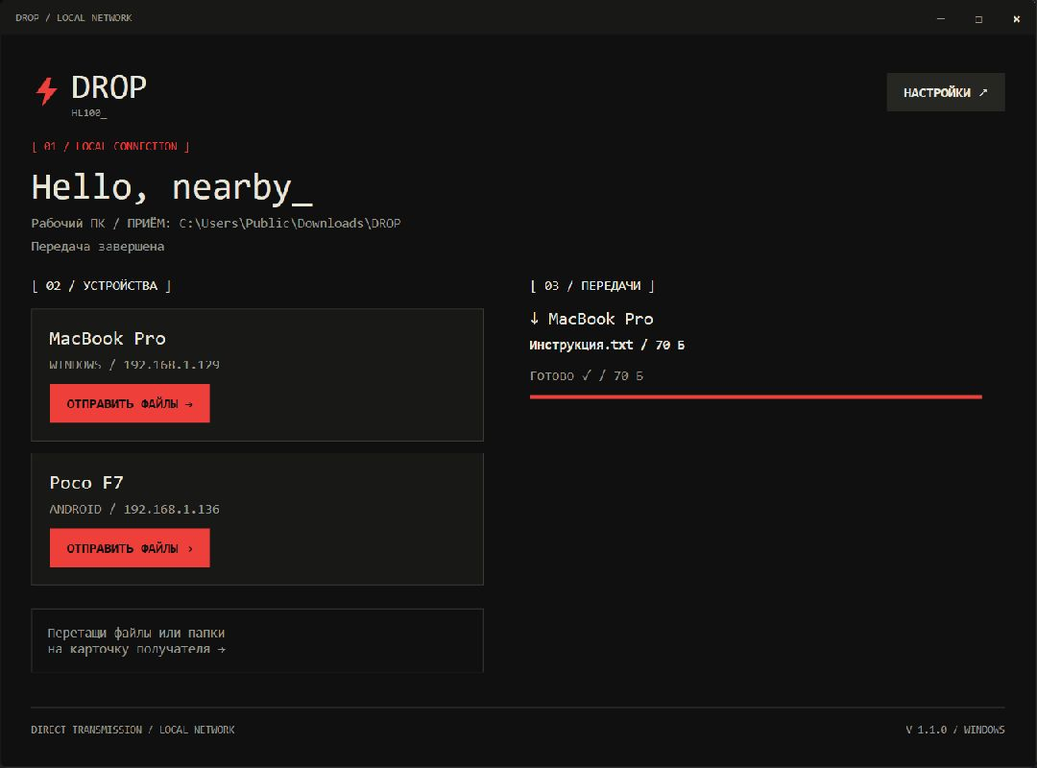
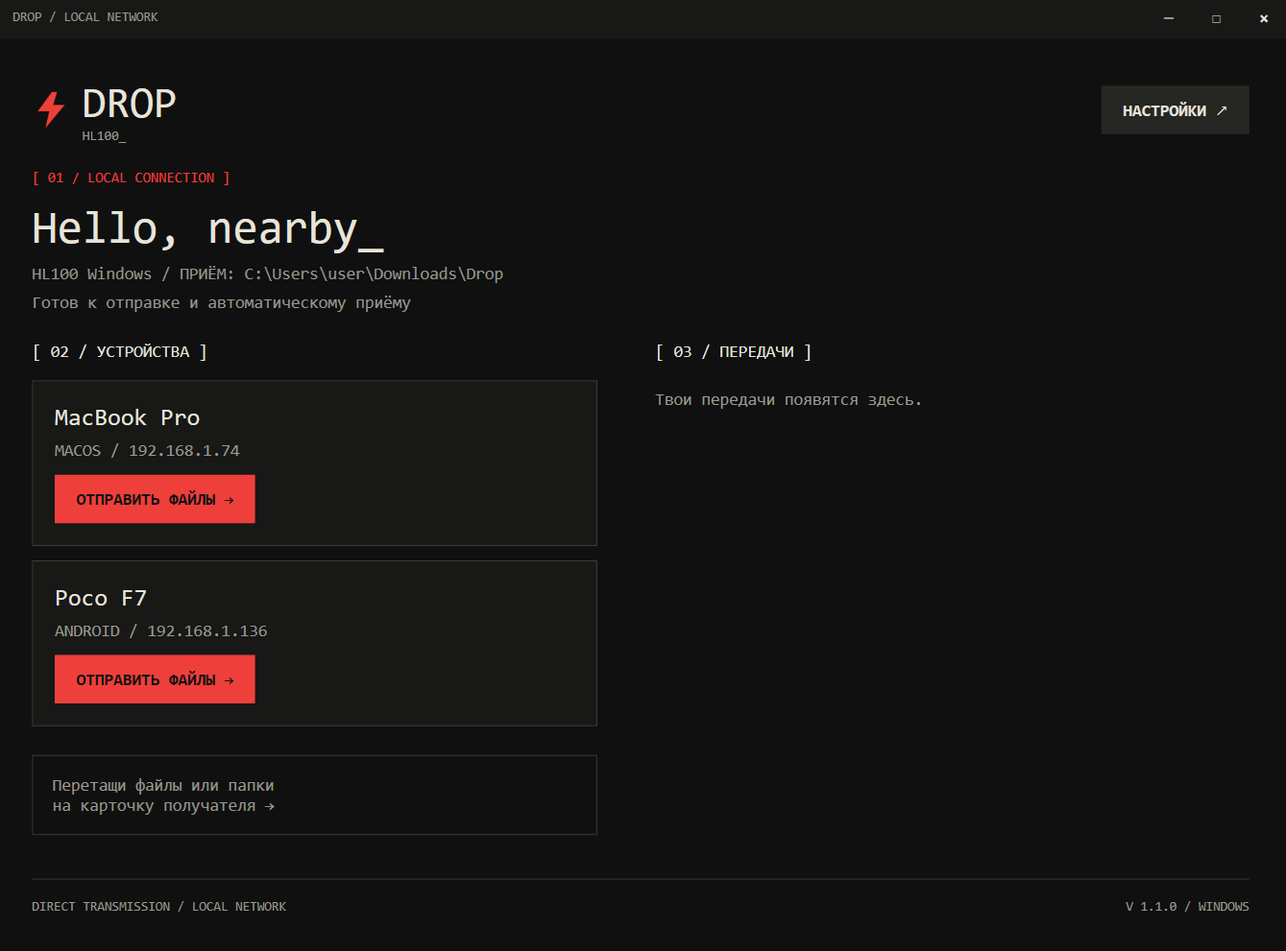
Replace Windows and Android screenshots with user-provided originals

diff --git a/site/style.css b/site/style.css
@@ -1,1 +1,1 @@
-*{box-sizing:border-box}html{scroll-behavior:smooth;scroll-padding-top:30px}body{margin:0;background:#101010;color:#e8e5d9;font-family:Consolas,"SFMono-Regular",Menlo,monospace;font-size:15px;line-height:1.7}a{color:inherit;text-decoration:none}a:hover{color:#ef3f3b}button{font:inherit;cursor:pointer}button:focus-visible,a:focus-visible,summary:focus-visible{outline:2px solid #ef3f3b;outline-offset:5px}.wrap{width:min(1180px,calc(100% - 64px));margin-inline:auto}.nav{height:110px;display:flex;align-items:center;justify-content:space-between;border-bottom:1px solid #30302c}.brand{display:flex;gap:13px;align-items:center;line-height:1;font-size:28px;font-weight:bold}.brand small{display:block;font-size:10px;letter-spacing:2px;color:#99998f;margin-top:8px;font-weight:normal}.nav nav{display:flex;gap:34px;align-items:center;font-size:12px}.nav-download{color:#ef3f3b}.hero{padding:55px 0 78px}.eyebrow,.section-label{color:#ef3f3b;font-size:12px;letter-spacing:1px;display:flex;justify-content:space-between;gap:20px}.hero-grid{display:grid;grid-template-columns:1.25fr 1fr;gap:50px;margin-top:45px;align-items:center}h1{font-size:clamp(35px,4.8vw,66px);font-weight:normal;line-height:1.14;letter-spacing:-3px;margin:0 0 30px}h1 span{color:#99998f}.lead{font-size:22px;line-height:1.55}.hero-copy{max-width:490px;color:#aaa99e}.actions{display:flex;align-items:center;gap:28px;margin:35px 0}.button{display:inline-block;background:#ef3f3b;color:#101010;padding:17px 24px;font-size:12px;font-weight:bold;text-align:center;line-height:1.3;border:1px solid #ef3f3b}.button:hover{background:#ff5550;color:#101010}.text-link{font-size:12px;border-bottom:1px solid #54544c;padding-bottom:5px}.platforms{font-size:10px;letter-spacing:1px;color:#99998f}.platforms i{color:#ef3f3b;font-style:normal;margin:0 9px}.hero-art{background:#181817;border:1px solid #393932;min-height:405px;padding:40px 30px;position:relative}.hero-art>img{width:34px;height:44px;display:inline-block;margin-right:15px}.hero-art strong{font-size:clamp(62px,7.5vw,104px);line-height:1;letter-spacing:-5px;font-weight:normal}.network{display:flex;justify-content:space-between;align-items:center;font-size:11px;margin-top:42px;gap:8px}.network b{color:#ef3f3b;font-size:21px}.hero-art p{font-size:10px;color:#99998f;letter-spacing:1px;margin-top:23px}.hero-art .line{height:4px;background:#ef3f3b;width:80%;margin:30px 0 20px}.hero-art small{font-size:9px;color:#99998f;letter-spacing:1px}section:not(.hero){padding:65px 0;border-top:1px solid #30302c}.section-heading{display:grid;grid-template-columns:1.25fr 1fr;gap:50px;align-items:center;margin:30px 0}h2{font-size:clamp(28px,3.3vw,43px);line-height:1.2;font-weight:normal;letter-spacing:-1.5px;margin:30px 0}h3{font-size:19px;line-height:1.35;font-weight:normal}.section-heading p{color:#99998f;margin:0 0 16px}.screenshot{border:1px solid #393932;padding:0;display:block;background:#181817;width:100%;overflow:hidden}.screenshot:hover{border-color:#ef3f3b}.screenshot img{display:block;width:100%;height:auto}.portrait{max-width:430px;margin:auto}.caption{color:#99998f;font-size:11px;line-height:1.7;margin:15px 0 28px}.feature-grid,.download-grid{display:grid;grid-template-columns:repeat(3,1fr);gap:0;margin-top:40px}.feature-grid article{padding:10px 28px 10px 0}.feature-grid article+article{border-left:1px solid #393932;padding-left:28px}.feature-grid span,.download-grid span{font-size:10px;color:#ef3f3b;letter-spacing:1px}.feature-grid p,.steps p,.screen-grid p{color:#aaa99e;font-size:13px}.steps{display:grid;grid-template-columns:repeat(3,1fr);gap:30px;padding:0;list-style:none;margin:40px 0}.steps b{font-size:42px;color:#ef3f3b;font-weight:normal}.screen-grid{display:grid;grid-template-columns:1fr 1fr;gap:75px;margin-top:40px}.screen-grid article{max-width:430px;margin:auto;width:100%}.screen-grid small{font-size:10px;color:#99998f}.screen-grid .screenshot{max-height:700px}.download-grid article{padding:30px 24px;border:1px solid #393932;background:#181817}.download-grid article+article{border-left:none}.download-grid h3{font-size:29px;margin:20px 0}.download-grid p{min-height:60px;font-size:12px;color:#aaa99e}.download-grid .button{display:block;margin:28px 0 20px}.download-grid .text-link{font-size:10px}.download .lead{color:#99998f}.update .section-heading>div{max-width:460px}details{border-bottom:1px solid #393932;padding:19px 0}summary{cursor:pointer;list-style:none;display:flex;justify-content:space-between;gap:20px;font-size:15px}summary::after{content:"+";color:#ef3f3b}details[open] summary::after{content:"−"}details p{font-size:13px;color:#aaa99e;max-width:850px}footer{border-top:1px solid #393932;padding:35px 0 50px;display:flex;align-items:center;justify-content:space-between;gap:25px}footer .brand{font-size:22px}footer p{font-size:9px;color:#99998f}footer>div{display:flex;flex-direction:column;font-size:10px;gap:6px}dialog{background:#101010;color:#e8e5d9;border:1px solid #55554c;max-width:95vw;max-height:95vh;padding:36px 14px 14px}dialog::backdrop{background:#000c}dialog img{display:block;max-height:78vh;max-width:90vw;width:auto;margin:auto}dialog p{font-size:11px;margin:12px 0 0}.close{position:absolute;right:8px;top:4px;border:0;background:transparent;color:#e8e5d9;font-size:25px}.skip{position:fixed;top:-100px;left:20px;background:#ef3f3b;color:#101010;padding:12px;z-index:100}.skip:focus{top:10px}.guide{max-width:940px;padding-top:45px}.guide h1{margin-top:30px}.guide-nav{display:flex;flex-wrap:wrap;gap:12px 24px;font-size:12px;margin:35px 0 60px;color:#aaa99e}.guide section{padding:50px 0}.guide section p,.guide section li{color:#aaa99e;max-width:800px}.guide li{margin-bottom:12px}.guide section a:not(.button){color:#e8e5d9;text-decoration:underline;text-underline-offset:4px}.guide .portrait{margin:30px 0;max-width:360px}.guide .wide{margin-top:30px}.guide section .text-link{text-decoration:none!important}@media(max-width:850px){.wrap{width:calc(100% - 40px)}.hero-grid{gap:28px;grid-template-columns:1fr}.hero-art{min-height:260px;padding:25px;max-width:550px}.hero-art strong{font-size:90px}.network{margin-top:25px}.hero{padding:35px 0 50px}.section-heading{gap:25px;grid-template-columns:1fr}.feature-grid,.steps{grid-template-columns:1fr}.feature-grid article{padding:22px 0}.feature-grid article+article{border-left:none;border-top:1px solid #393932;padding-left:0}.steps{gap:15px}.steps li{padding-bottom:15px;border-bottom:1px solid #393932}.steps b{float:left;margin-right:25px}.screen-grid{gap:30px}.download-grid{grid-template-columns:1fr}.download-grid article+article{border-left:1px solid #393932;border-top:none}.download-grid p{min-height:0}.download-grid .button{max-width:340px}.nav{height:90px}.nav nav{gap:18px}.nav nav>a{font-size:10px}footer{flex-wrap:wrap}.guide h1{letter-spacing:-1px}}@media(max-width:520px){.wrap{width:calc(100% - 32px)}.nav nav{gap:12px}.brand{font-size:22px;gap:8px}.brand>img{width:20px}.nav-download{display:none}h1{letter-spacing:-1.5px;font-size:39px}.lead{font-size:18px}.actions{gap:18px;flex-wrap:wrap}.platforms{font-size:8px;letter-spacing:0}.platforms i{margin:0 4px}.hero-art strong{font-size:76px}.hero-art>img{width:26px}.hero-art{padding:25px 20px}.network{font-size:9px}.screen-grid{grid-template-columns:1fr;gap:48px}.screen-grid .screenshot{max-width:320px}.screen-grid h3,.screen-grid p,.screen-grid small{max-width:320px;display:block;margin-inline:auto}.section-label,.eyebrow{font-size:10px;letter-spacing:0}section:not(.hero){padding:45px 0}h2{font-size:30px;letter-spacing:-1px}footer p{width:100%}.guide section{padding:40px 0}.guide ol,.guide ul{padding-left:22px}.guide section li{font-size:13px}}@media(prefers-reduced-motion:reduce){html{scroll-behavior:auto}}
+*{box-sizing:border-box}html{scroll-behavior:smooth;scroll-padding-top:30px}body{margin:0;background:#101010;color:#e8e5d9;font-family:Consolas,"SFMono-Regular",Menlo,monospace;font-size:15px;line-height:1.7}a{color:inherit;text-decoration:none}a:hover{color:#ef3f3b}button{font:inherit;cursor:pointer}button:focus-visible,a:focus-visible,summary:focus-visible{outline:2px solid #ef3f3b;outline-offset:5px}.wrap{width:min(1180px,calc(100% - 64px));margin-inline:auto}.nav{height:110px;display:flex;align-items:center;justify-content:space-between;border-bottom:1px solid #30302c}.brand{display:flex;gap:13px;align-items:center;line-height:1;font-size:28px;font-weight:bold}.brand small{display:block;font-size:10px;letter-spacing:2px;color:#99998f;margin-top:8px;font-weight:normal}.nav nav{display:flex;gap:34px;align-items:center;font-size:12px}.nav-download{color:#ef3f3b}.hero{padding:55px 0 78px}.eyebrow,.section-label{color:#ef3f3b;font-size:12px;letter-spacing:1px;display:flex;justify-content:space-between;gap:20px}.hero-grid{display:grid;grid-template-columns:1.25fr 1fr;gap:50px;margin-top:45px;align-items:center}h1{font-size:clamp(35px,4.8vw,66px);font-weight:normal;line-height:1.14;letter-spacing:-3px;margin:0 0 30px}h1 span{color:#99998f}.lead{font-size:22px;line-height:1.55}.hero-copy{max-width:490px;color:#aaa99e}.actions{display:flex;align-items:center;gap:28px;margin:35px 0}.button{display:inline-block;background:#ef3f3b;color:#101010;padding:17px 24px;font-size:12px;font-weight:bold;text-align:center;line-height:1.3;border:1px solid #ef3f3b}.button:hover{background:#ff5550;color:#101010}.text-link{font-size:12px;border-bottom:1px solid #54544c;padding-bottom:5px}.platforms{font-size:10px;letter-spacing:1px;color:#99998f}.platforms i{color:#ef3f3b;font-style:normal;margin:0 9px}.hero-art{background:#181817;border:1px solid #393932;min-height:405px;padding:40px 30px;position:relative}.hero-art>img{width:34px;height:44px;display:inline-block;margin-right:15px}.hero-art strong{font-size:clamp(62px,7.5vw,104px);line-height:1;letter-spacing:-5px;font-weight:normal}.network{display:flex;justify-content:space-between;align-items:center;font-size:11px;margin-top:42px;gap:8px}.network b{color:#ef3f3b;font-size:21px}.hero-art p{font-size:10px;color:#99998f;letter-spacing:1px;margin-top:23px}.hero-art .line{height:4px;background:#ef3f3b;width:80%;margin:30px 0 20px}.hero-art small{font-size:9px;color:#99998f;letter-spacing:1px}section:not(.hero){padding:65px 0;border-top:1px solid #30302c}.section-heading{display:grid;grid-template-columns:1.25fr 1fr;gap:50px;align-items:center;margin:30px 0}h2{font-size:clamp(28px,3.3vw,43px);line-height:1.2;font-weight:normal;letter-spacing:-1.5px;margin:30px 0}h3{font-size:19px;line-height:1.35;font-weight:normal}.section-heading p{color:#99998f;margin:0 0 16px}.screenshot{border:1px solid #393932;padding:0;display:block;background:#181817;width:100%;overflow:hidden}.screenshot:hover{border-color:#ef3f3b}.screenshot img{display:block;width:100%;height:auto}.portrait{max-width:430px;margin:auto}.caption{color:#99998f;font-size:11px;line-height:1.7;margin:15px 0 28px}.feature-grid,.download-grid{display:grid;grid-template-columns:repeat(3,1fr);gap:0;margin-top:40px}.feature-grid article{padding:10px 28px 10px 0}.feature-grid article+article{border-left:1px solid #393932;padding-left:28px}.feature-grid span,.download-grid span{font-size:10px;color:#ef3f3b;letter-spacing:1px}.feature-grid p,.steps p,.screen-grid p{color:#aaa99e;font-size:13px}.steps{display:grid;grid-template-columns:repeat(3,1fr);gap:30px;padding:0;list-style:none;margin:40px 0}.steps b{font-size:42px;color:#ef3f3b;font-weight:normal}.screen-grid{display:grid;grid-template-columns:1fr 1fr;gap:75px;margin-top:40px}.screen-grid article{max-width:430px;margin:auto;width:100%}.screen-grid small{font-size:10px;color:#99998f}.screen-grid{align-items:start}.screen-grid article{margin:0 auto}.download-grid article{padding:30px 24px;border:1px solid #393932;background:#181817}.download-grid article+article{border-left:none}.download-grid h3{font-size:29px;margin:20px 0}.download-grid p{min-height:60px;font-size:12px;color:#aaa99e}.download-grid .button{display:block;margin:28px 0 20px}.download-grid .text-link{font-size:10px}.download .lead{color:#99998f}.update .section-heading>div{max-width:460px}details{border-bottom:1px solid #393932;padding:19px 0}summary{cursor:pointer;list-style:none;display:flex;justify-content:space-between;gap:20px;font-size:15px}summary::after{content:"+";color:#ef3f3b}details[open] summary::after{content:"−"}details p{font-size:13px;color:#aaa99e;max-width:850px}footer{border-top:1px solid #393932;padding:35px 0 50px;display:flex;align-items:center;justify-content:space-between;gap:25px}footer .brand{font-size:22px}footer p{font-size:9px;color:#99998f}footer>div{display:flex;flex-direction:column;font-size:10px;gap:6px}dialog{background:#101010;color:#e8e5d9;border:1px solid #55554c;max-width:95vw;max-height:95vh;padding:36px 14px 14px}dialog::backdrop{background:#000c}dialog img{display:block;max-height:78vh;max-width:90vw;width:auto;margin:auto}dialog p{font-size:11px;margin:12px 0 0}.close{position:absolute;right:8px;top:4px;border:0;background:transparent;color:#e8e5d9;font-size:25px}.skip{position:fixed;top:-100px;left:20px;background:#ef3f3b;color:#101010;padding:12px;z-index:100}.skip:focus{top:10px}.guide{max-width:940px;padding-top:45px}.guide h1{margin-top:30px}.guide-nav{display:flex;flex-wrap:wrap;gap:12px 24px;font-size:12px;margin:35px 0 60px;color:#aaa99e}.guide section{padding:50px 0}.guide section p,.guide section li{color:#aaa99e;max-width:800px}.guide li{margin-bottom:12px}.guide section a:not(.button){color:#e8e5d9;text-decoration:underline;text-underline-offset:4px}.guide .portrait{margin:30px 0;max-width:360px}.guide .wide{margin-top:30px}.guide section .text-link{text-decoration:none!important}@media(max-width:850px){.wrap{width:calc(100% - 40px)}.hero-grid{gap:28px;grid-template-columns:1fr}.hero-art{min-height:260px;padding:25px;max-width:550px}.hero-art strong{font-size:90px}.network{margin-top:25px}.hero{padding:35px 0 50px}.section-heading{gap:25px;grid-template-columns:1fr}.feature-grid,.steps{grid-template-columns:1fr}.feature-grid article{padding:22px 0}.feature-grid article+article{border-left:none;border-top:1px solid #393932;padding-left:0}.steps{gap:15px}.steps li{padding-bottom:15px;border-bottom:1px solid #393932}.steps b{float:left;margin-right:25px}.screen-grid{gap:30px}.download-grid{grid-template-columns:1fr}.download-grid article+article{border-left:1px solid #393932;border-top:none}.download-grid p{min-height:0}.download-grid .button{max-width:340px}.nav{height:90px}.nav nav{gap:18px}.nav nav>a{font-size:10px}footer{flex-wrap:wrap}.guide h1{letter-spacing:-1px}}@media(max-width:520px){.wrap{width:calc(100% - 32px)}.nav nav{gap:12px}.brand{font-size:22px;gap:8px}.brand>img{width:20px}.nav-download{display:none}h1{letter-spacing:-1.5px;font-size:39px}.lead{font-size:18px}.actions{gap:18px;flex-wrap:wrap}.platforms{font-size:8px;letter-spacing:0}.platforms i{margin:0 4px}.hero-art strong{font-size:76px}.hero-art>img{width:26px}.hero-art{padding:25px 20px}.network{font-size:9px}.screen-grid{grid-template-columns:1fr;gap:48px}.screen-grid .screenshot{max-width:320px}.screen-grid h3,.screen-grid p,.screen-grid small{max-width:320px;display:block;margin-inline:auto}.section-label,.eyebrow{font-size:10px;letter-spacing:0}section:not(.hero){padding:45px 0}h2{font-size:30px;letter-spacing:-1px}footer p{width:100%}.guide section{padding:40px 0}.guide ol,.guide ul{padding-left:22px}.guide section li{font-size:13px}}@media(prefers-reduced-motion:reduce){html{scroll-behavior:auto}}

diff --git a/site/index.html b/site/index.html
@@ -1,7 +1,7 @@
 <!doctype html><html lang="ru"><head><meta charset="utf-8"><meta name="viewport" content="width=device-width,initial-scale=1"><meta name="theme-color" content="#101010"><title>DROP — файлы рядом. Без проводов.</title><meta name="description" content="Нативный обмен файлами и папками в локальной сети. Windows, Android и Mac. Прямой TCP, пауза и докачка."><meta property="og:title" content="DROP — файлы рядом. Без проводов."><meta property="og:description" content="Windows · Android · Mac. Выбери устройство и отправь."><meta property="og:image" content="https://cveloy102.github.io/hl100-drop/images/windows-main.png"><link rel="icon" href="images/drop-mark.svg" type="image/svg+xml"><link rel="stylesheet" href="style.css"><script src="app.js" defer></script></head><body><a class="skip" href="#main">К содержимому</a><header class="nav wrap"><a class="brand" href="./" aria-label="DROP — главная"><img src="images/drop-mark.svg" alt="" width="24" height="30"><span>DROP<small>HL100_</small></span></a><nav aria-label="Главное меню"><a href="guide.html">Инструкция</a><a href="https://github.com/cveloy102/hl100-drop">GitHub ↗</a><a class="nav-download" href="./#download">Скачать ↓</a></nav></header><main id="main"><section class="hero wrap"><div class="eyebrow">[ 01 / HELLO, NEARBY_ ] <span data-version>V 1.1.1</span></div><div class="hero-grid"><div><h1>Файлы рядом.<br><span>Без проводов.</span></h1><p class="lead">С компьютера на телефон.<br>С телефона на Mac. И обратно.</p><p class="hero-copy">Открой DROP на устройствах в одной сети. Выбери получателя — файлы отправятся напрямую в его папку.</p><div class="actions"><a class="button" href="#download">СКАЧАТЬ DROP ↓</a><a class="text-link" href="guide.html">Как это работает ↗</a></div><div class="platforms">WINDOWS 10+ <i>/</i> ANDROID 12+ <i>/</i> macOS 12+</div></div><div class="hero-art" aria-label="DROP — прямой обмен в локальной сети"><img src="images/drop-mark.svg" alt="" width="72" height="90"><strong>DROP</strong><div class="network"><span>ПК</span><b>↔</b><span>ТЕЛЕФОН</span><b>↔</b><span>MAC</span></div><p>ОДНА СЕТЬ. ТВОИ УСТРОЙСТВА.</p><div class="line"></div><small>HL100_ / DIRECT CONNECTION</small></div></div></section>
-<section class="product wrap"><div class="section-label">[ 02 / ПРЯМОЙ ПУТЬ К ФАЙЛАМ ]</div><div class="section-heading"><h2>Увидел. Выбрал.<br>Отправил.</h2><p>Без аккаунта и облачного посредника.<br>Нативный интерфейс на каждой платформе.</p></div><button class="screenshot wide" data-viewer type="button" aria-label="Увеличить главный экран Windows"><img src="images/windows-main.png" alt="DROP на Windows: устройства рядом и полученный файл" loading="lazy"></button><p class="caption">Windows 1.1.0 · настоящий интерфейс · демонстрационные имя устройства и файл.</p><div class="feature-grid"><article><span>01 — DIRECT</span><h3>В твоей сети</h3><p>Данные идут между устройствами по TCP. Для обмена интернет не нужен.</p></article><article><span>02 — KEEP GOING</span><h3>С того же места</h3><p>Пауза по твоему желанию. Автоматическая докачка после обрыва и выхода из приложений.</p></article><article><span>03 — WHOLE FOLDER</span><h3>Папка целиком</h3><p>Структура, вложения и пустые папки сохраняются. В истории — один объект с общим размером.</p></article></div></section>
+<section class="product wrap"><div class="section-label">[ 02 / ПРЯМОЙ ПУТЬ К ФАЙЛАМ ]</div><div class="section-heading"><h2>Увидел. Выбрал.<br>Отправил.</h2><p>Без аккаунта и облачного посредника.<br>Нативный интерфейс на каждой платформе.</p></div><button class="screenshot wide" data-viewer type="button" aria-label="Увеличить главный экран Windows"><img src="images/windows-main.png" alt="DROP на Windows: MacBook Pro и Poco F7 в локальной сети" loading="lazy"></button><p class="caption">Windows 1.1.0 · оригинальный скриншот пользователя · Mac и Android в локальной сети.</p><div class="feature-grid"><article><span>01 — DIRECT</span><h3>В твоей сети</h3><p>Данные идут между устройствами по TCP. Для обмена интернет не нужен.</p></article><article><span>02 — KEEP GOING</span><h3>С того же места</h3><p>Пауза по твоему желанию. Автоматическая докачка после обрыва и выхода из приложений.</p></article><article><span>03 — WHOLE FOLDER</span><h3>Папка целиком</h3><p>Структура, вложения и пустые папки сохраняются. В истории — один объект с общим размером.</p></article></div></section>
 <section class="workflow wrap"><div class="section-label">[ 03 / ТРИ ШАГА ]</div><h2>Настрой один раз.<br>Пользуйся каждый день.</h2><ol class="steps"><li><b>01</b><h3>Имя и папка</h3><p>Как устройство увидят другие и куда сохранять полученное.</p></li><li><b>02</b><h3>Одна сеть</h3><p>Открой DROP на обоих устройствах. Получатели появятся рядом.</p></li><li><b>03</b><h3>Выбери и отправь</h3><p>Перетащи на ПК или Mac. На Android выбери фото, файлы или папку; доступно «Поделиться → DROP».</p></li></ol><a class="text-link" href="guide.html">Полная инструкция и ответы на вопросы ↗</a></section>
-<section class="screens wrap"><div class="section-label">[ 04 / СВОЙ НА КАЖДОМ УСТРОЙСТВЕ ]</div><div class="section-heading"><h2>Один DROP.<br>Три нативных приложения.</h2><p>WPF · Compose · AppKit<br>Общее ядро на Rust.</p></div><div class="screen-grid"><article><button class="screenshot portrait" data-viewer type="button" aria-label="Увеличить экран Mac"><img src="images/macos-main.png" alt="DROP в строке меню Mac: выбор получателя, передачи и Pin" loading="lazy"></button><h3>Mac — всегда рядом</h3><p>Компактная панель в строке меню, Pin и отдельное окно передач. Intel и Apple Silicon в одном DMG.</p><small>Настоящий AppKit 1.1.1 с демонстрационными данными из CI.</small></article><article id="android-preview"><button class="screenshot portrait" data-viewer type="button" aria-label="Увеличить экран Android"><img src="images/android-main.png" alt="Главный экран DROP на Android" loading="lazy"></button><h3>Android — отправь откуда удобно</h3><p>Фото, видео, файлы и папки. «Поделиться» из галереи. Приём в фоне можно включить в настройках.</p><small>Настоящий DROP 1.1.0 на POCO F7; экран снят 14 октября 2026.</small></article></div></section>
+<section class="screens wrap"><div class="section-label">[ 04 / СВОЙ НА КАЖДОМ УСТРОЙСТВЕ ]</div><div class="section-heading"><h2>Один DROP.<br>Три нативных приложения.</h2><p>WPF · Compose · AppKit<br>Общее ядро на Rust.</p></div><div class="screen-grid"><article><button class="screenshot portrait" data-viewer type="button" aria-label="Увеличить экран Mac"><img src="images/macos-main.png" alt="DROP в строке меню Mac: выбор получателя, передачи и Pin" loading="lazy"></button><h3>Mac — всегда рядом</h3><p>Компактная панель в строке меню, Pin и отдельное окно передач. Intel и Apple Silicon в одном DMG.</p><small>Настоящий AppKit 1.1.1 с демонстрационными данными из CI.</small></article><article id="android-preview"><button class="screenshot portrait" data-viewer type="button" aria-label="Увеличить экран Android"><img src="images/android-main.jpg" alt="Главный экран DROP на Android" loading="lazy"></button><h3>Android — отправь откуда удобно</h3><p>Фото, видео, файлы и папки. «Поделиться» из галереи. Приём в фоне можно включить в настройках.</p><small>DROP 1.1.0 на POCO F7 · доступно обновление до 1.1.1 · оригинальный скриншот пользователя, 14 октября 2026.</small></article></div></section>
 <section class="download wrap" id="download"><div class="section-label">[ 05 / DOWNLOAD ] <span data-version>V 1.1.1</span></div><h2>Готов к передаче.</h2><p class="lead">Выбери своё устройство.</p><div class="download-grid"><article><span>DESKTOP / X64</span><h3>Windows</h3><p>Windows 10 и новее.<br>Установщик, трей и автозапуск.</p><a class="button" data-asset="windows" href="https://github.com/cveloy102/hl100-drop/releases/download/v1.1.1/HL100DropSetup-1.1.1.exe">СКАЧАТЬ .EXE ↓</a><a class="text-link" href="guide.html#windows">Установка ↗</a></article><article><span>MOBILE / ARM64 · X86_64</span><h3>Android</h3><p>Android 12 и новее.<br>Релизный APK, без магазина.</p><a class="button" data-asset="android" href="https://github.com/cveloy102/hl100-drop/releases/download/v1.1.1/HL100Drop-1.1.1.apk">СКАЧАТЬ .APK ↓</a><a class="text-link" href="guide.html#android">Установка ↗</a></article><article><span>DESKTOP / UNIVERSAL</span><h3>macOS</h3><p>macOS 12 и новее.<br>Intel + Apple Silicon, включая M1 Pro.</p><a class="button" data-asset="macos" href="https://github.com/cveloy102/hl100-drop/releases/download/v1.1.1/HL100Drop-1.1.1-universal.dmg">СКАЧАТЬ .DMG ↓</a><a class="text-link" href="guide.html#macos">Установка ↗</a></article></div><p class="caption">macOS: ad hoc подпись, без нотариализации Apple. Релиз содержит SHA-256 всех файлов. Скорость зависит от сети и накопителей.</p><a class="text-link" href="https://github.com/cveloy102/hl100-drop/releases/latest">Все файлы и описание релиза ↗</a></section>
 <section class="update wrap"><div class="section-label">[ 06 / KEEP UP TO DATE ]</div><div class="section-heading"><h2>Следующая версия —<br>в самом DROP.</h2><div><p>Настройки → «Проверить обновления» → «Обновиться». Загрузка по твоему действию, с проверкой SHA-256.</p><p>Переход 1.1.0 → 1.1.1 готов для проверки. На Mac после загрузки замени приложение из DMG.</p><a class="text-link" href="guide.html#updates">Проверить обновление ↗</a></div></div></section>
 <section class="faq wrap"><div class="section-label">[ 07 / ПОЛЕЗНО ЗНАТЬ ]</div><h2>Вопросы рядом.</h2><details><summary>Нужен интернет?</summary><p>Для обмена — нет. Устройства должны находиться в одной локальной сети. Для проверки и скачивания обновления нужен доступ к GitHub.</p></details><details><summary>Что происходит при обрыве?</summary><p>Версии 1.1+ согласуют докачку. После возвращения устройства передача продолжится с записанной позиции. Не перемещай и не редактируй оригинал; Android-провайдер должен поддерживать позиционную запись.</p></details><details><summary>Зачем уведомление Android?</summary><p>Обычная работа открытого приложения не требует постоянной плашки. Активный фоновый приём требует службы и её системного уведомления; фон и длительность настраиваются в DROP.</p></details><details><summary>Можно использовать в публичной сети?</summary><p>DROP рассчитан на доверенную LAN. Авторизации и шифрования передачи нет; получатель принимает файлы автоматически.</p></details><details><summary>Устройства не появляются?</summary><p>Проверь одну сеть, запущенный DROP и включённый приём. Изоляция гостевого Wi-Fi, VPN или брандмауэр могут мешать обнаружению. Подробнее — в инструкции.</p></details></section></main><footer class="wrap"><a class="brand" href="./"><img src="images/drop-mark.svg" alt="" width="18" height="24"><span>DROP<small>HL100_</small></span></a><p>DIRECT TRANSMISSION / LOCAL NETWORK</p><div><a href="https://github.com/cveloy102/hl100-drop/issues/new/choose">Обратная связь ↗</a><a href="https://github.com/cveloy102/hl100-drop/blob/codex/initial-implementation/CHANGELOG.md">История версий ↗</a></div></footer><dialog id="viewer" aria-label="Просмотр скриншота"><button class="close" type="button" aria-label="Закрыть">×</button><img src="images/windows-main.png" alt=""><p></p></dialog></body></html>

diff --git a/docs/usage.md b/docs/usage.md
@@ -14,7 +14,7 @@
 
 ![Настройки Windows](images/windows-settings.png)
 
-*Настоящий экран Windows 1.1.0 с демонстрационными настройками.*
+*Windows 1.1.0: настройки и предложение обновиться до 1.1.1. Оригинальный скриншот пользователя.*
 
 ## Установка на Android
 
@@ -25,9 +25,9 @@
 
 Требуется Android 12 или новее, ARM64 либо x86_64. При обновлении устанавливайте новый APK поверх старого: удаление приложения лишает его настроек и журналов докачки.
 
-![DROP на Android](images/android-main.png)
+![DROP на Android](images/android-main.jpg)
 
-*Настоящий DROP 1.1.0 на POCO F7 / Android 16. Для документации история завершённых передач не показывается.*
+*Настоящий DROP 1.1.0 на POCO F7 / Android 16. Доступно обновление до 1.1.1. Оригинальный скриншот пользователя.*
 
 ## Установка на macOS
 
@@ -52,9 +52,9 @@
 
 Файлы принимаются автоматически. Совпадающее имя не должно перезаписать существующий файл: новая копия получает суффикс. Папка показывается одной строкой с суммарным размером, вложенные файлы сохраняются внутри.
 
-![Устройство и полученный файл](images/windows-main.png)
+![Устройства в локальной сети](images/windows-main.png)
 
-*Настоящий интерфейс, демонстрационное имя отправителя и тестовый текстовый файл.*
+*Windows 1.1.0: обнаружены MacBook Pro и Poco F7. Оригинальный скриншот пользователя.*
 
 ## Открытие полученного
 
